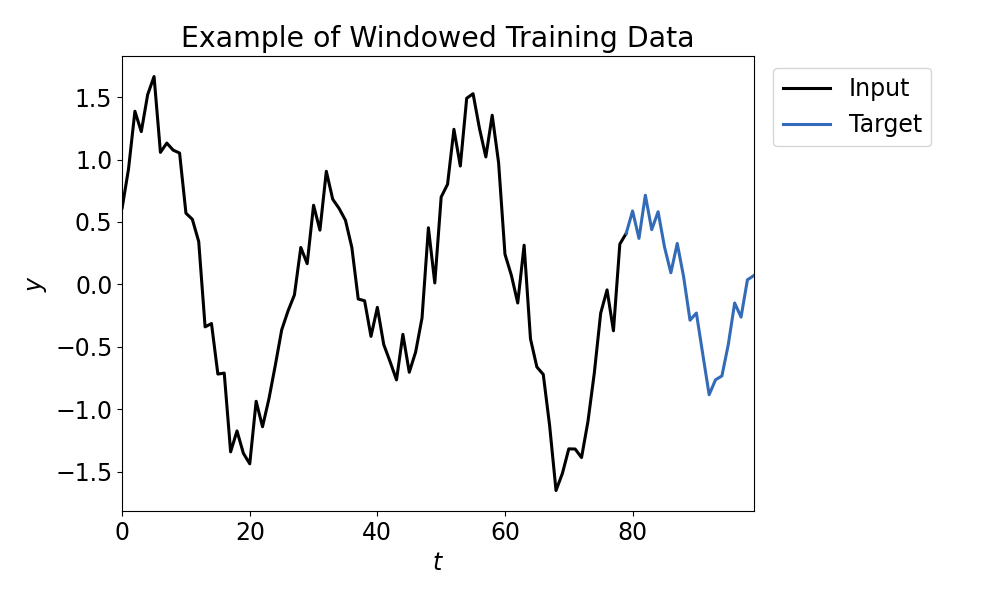
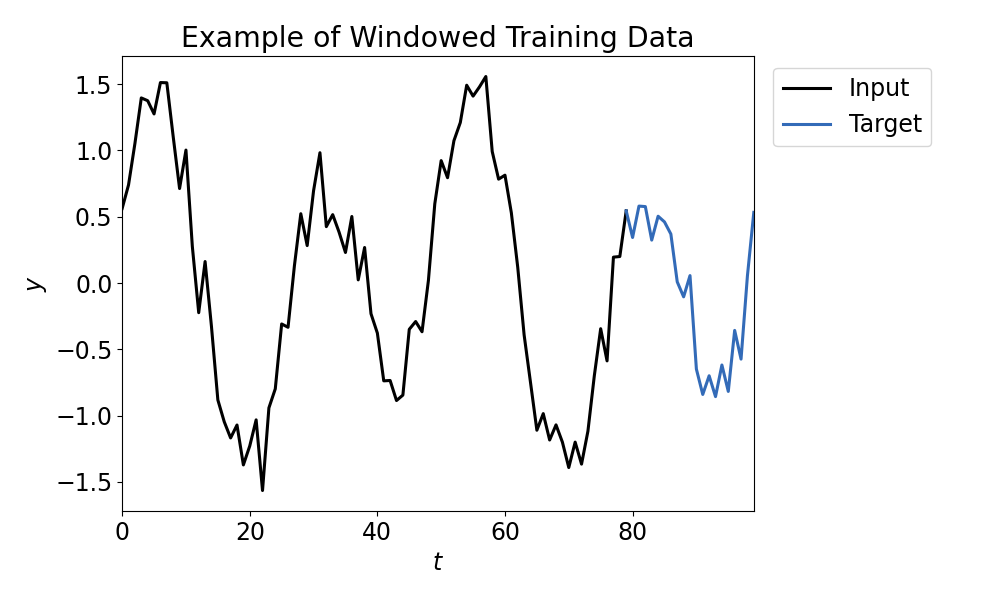
暂存 过拟合 没做逆变换

diff --git a/LSTM_encoder_decoder/code/example.py b/LSTM_encoder_decoder/code/example.py
@@ -19,9 +19,13 @@ import plotting
 
 matplotlib.rcParams.update({'font.size': 17})
 
-#----------------------------------------------------------------------------------------------------------------
+
 # generate dataset for LSTM
-data = generate_dataset.synthetic_data()
+# data = generate_dataset.synthetic_data()
+#数据类型ndarray
+data = generate_dataset.load_data()
+#归一化
+data=generate_dataset.maxmin_scaler(data)
 t_train, y_train, t_test, y_test = generate_dataset.train_test_split(data, data[:,-1], split = 0.8)
 
 # plot time series
@@ -51,8 +55,8 @@ plt.savefig('plots/train_test_split.png')
 # window dataset
 
 # set size of input/output windows 
-iw = 80 
-ow = 20 
+iw = 320
+ow = 80
 s = 5
 
 # generate windowed training/test datasets
@@ -81,8 +85,8 @@ plt.savefig('plots/windowed_data.png')
 X_train, Y_train, X_test, Y_test = generate_dataset.numpy_to_torch(Xtrain, Ytrain, Xtest, Ytest)
 
 # specify model parameters and train
-model = lstm_encoder_decoder.lstm_seq2seq(input_size = X_train.shape[2], hidden_size = 50)
-loss,val_losses = model.train_model(X_train, Y_train, n_epochs = 125, target_len = ow, batch_size = 20, training_prediction = 'mixed_teacher_forcing', teacher_forcing_ratio = 0.6, learning_rate = 0.0005, dynamic_tf = False)
+model = lstm_encoder_decoder.lstm_seq2seq(input_size = X_train.shape[2], hidden_size = 10)
+loss,val_losses = model.train_model(X_train, Y_train, n_epochs = 10, target_len = ow, batch_size = 10, training_prediction = 'mixed_teacher_forcing', teacher_forcing_ratio = 0.6, learning_rate = 0.01, dynamic_tf = False)
 
 plt.plot(loss,label="loss")
 plt.plot(val_losses,label="val_losses")

diff --git a/LSTM_encoder_decoder/code/plotting.py b/LSTM_encoder_decoder/code/plotting.py
@@ -4,6 +4,8 @@ import numpy as np
 import matplotlib.pyplot as plt
 import torch
 import  torch.nn as nn
+import generate_dataset
+
 
 def plot_train_test_results(lstm_model, Xtrain, Ytrain, Xtest, Ytest, num_rows = 4):
   '''
@@ -36,6 +38,7 @@ def plot_train_test_results(lstm_model, Xtrain, Ytrain, Xtest, Ytest, num_rows =
       # train set
       X_train_plt = Xtrain[:, ii, :]
       Y_train_pred = lstm_model.predict(torch.from_numpy(X_train_plt).type(torch.Tensor), target_len = ow)
+      # Y_train_pred=generate_dataset.inverse_transform(Y_train_pred)
 
       ax[ii, 0].plot(np.arange(0, iw), Xtrain[:, ii, -1], 'k', linewidth = 2, label = 'Input')
       ax[ii, 0].plot(np.arange(iw - 1, iw + ow), np.concatenate([[Xtrain[-1, ii, -1]], Ytrain[:, ii, -1]]),
@@ -50,6 +53,8 @@ def plot_train_test_results(lstm_model, Xtrain, Ytrain, Xtest, Ytest, num_rows =
       # test set
       X_test_plt = Xtest[:, ii, :]
       Y_test_pred = lstm_model.predict(torch.from_numpy(X_test_plt).type(torch.Tensor), target_len = ow)
+      # Y_test_pred=generate_dataset.inverse_transform(Y_test_pred)
+
       ax[ii, 1].plot(np.arange(0, iw), Xtest[:, ii, -1], 'k', linewidth = 2, label = 'Input')
       ax[ii, 1].plot(np.arange(iw - 1, iw + ow), np.concatenate([[Xtest[-1, ii, -1]], Ytest[:, ii, -1]]),
                      color = (0.2, 0.42, 0.72), linewidth = 2, label = 'Target')

diff --git a/LSTM_encoder_decoder/code/generate_dataset.py b/LSTM_encoder_decoder/code/generate_dataset.py
@@ -9,6 +9,9 @@ We will consider a noisy sinusoidal curve
 
 import numpy as np
 import torch
+from pandas import read_csv
+from sklearn.preprocessing import MinMaxScaler
+
 
 def synthetic_data(Nt = 2000, tf = 80 * np.pi):
     
@@ -105,3 +108,27 @@ def numpy_to_torch(Xtrain, Ytrain, Xtest, Ytest):
     Y_test_torch = torch.from_numpy(Ytest).type(torch.Tensor)
     
     return X_train_torch, Y_train_torch, X_test_torch, Y_test_torch
+
+
+def load_data():
+    # load dataset
+    dataset = read_csv('../../data_processing/result.csv', header=0, index_col=0,encoding="ANSI")
+    # dataset = read_csv('single.csv', header=0, index_col=0,encoding="ANSI")
+    # dataset=dataset.values
+    return dataset
+def maxmin_scaler(dataset):
+
+    #处理缺失值
+    dataset=dataset.fillna(dataset.mean())
+    # print(dataset.isnull().sum())
+    values = dataset.values
+    values = values.astype('float32')
+    # 标准化/放缩 特征值在（0,1）之间
+    scaler = MinMaxScaler(feature_range=(0, 1))
+    scaled = scaler.fit_transform(values)
+    return scaled
+def inverse_transform(dataset):
+
+    scaler = MinMaxScaler(feature_range=(0, 1))
+    inversed = scaler.inverse_transform(dataset)
+    return inversed

diff --git a/LSTM_encoder_decoder/code/lstm_encoder_decoder.py b/LSTM_encoder_decoder/code/lstm_encoder_decoder.py
@@ -255,7 +255,7 @@ class lstm_seq2seq(nn.Module):
                         for t in range(target_len):
                             decoder_output, decoder_hidden = self.decoder(decoder_input, decoder_hidden)
                             val_outputs[t] = decoder_output
-                            decoder_input = decoder_output
+                            decoder_input = val_target_batch[t, :, :]
 
                         val_loss += criterion(val_outputs, val_target_batch)
                         val_batch_loss+=val_loss.item()
